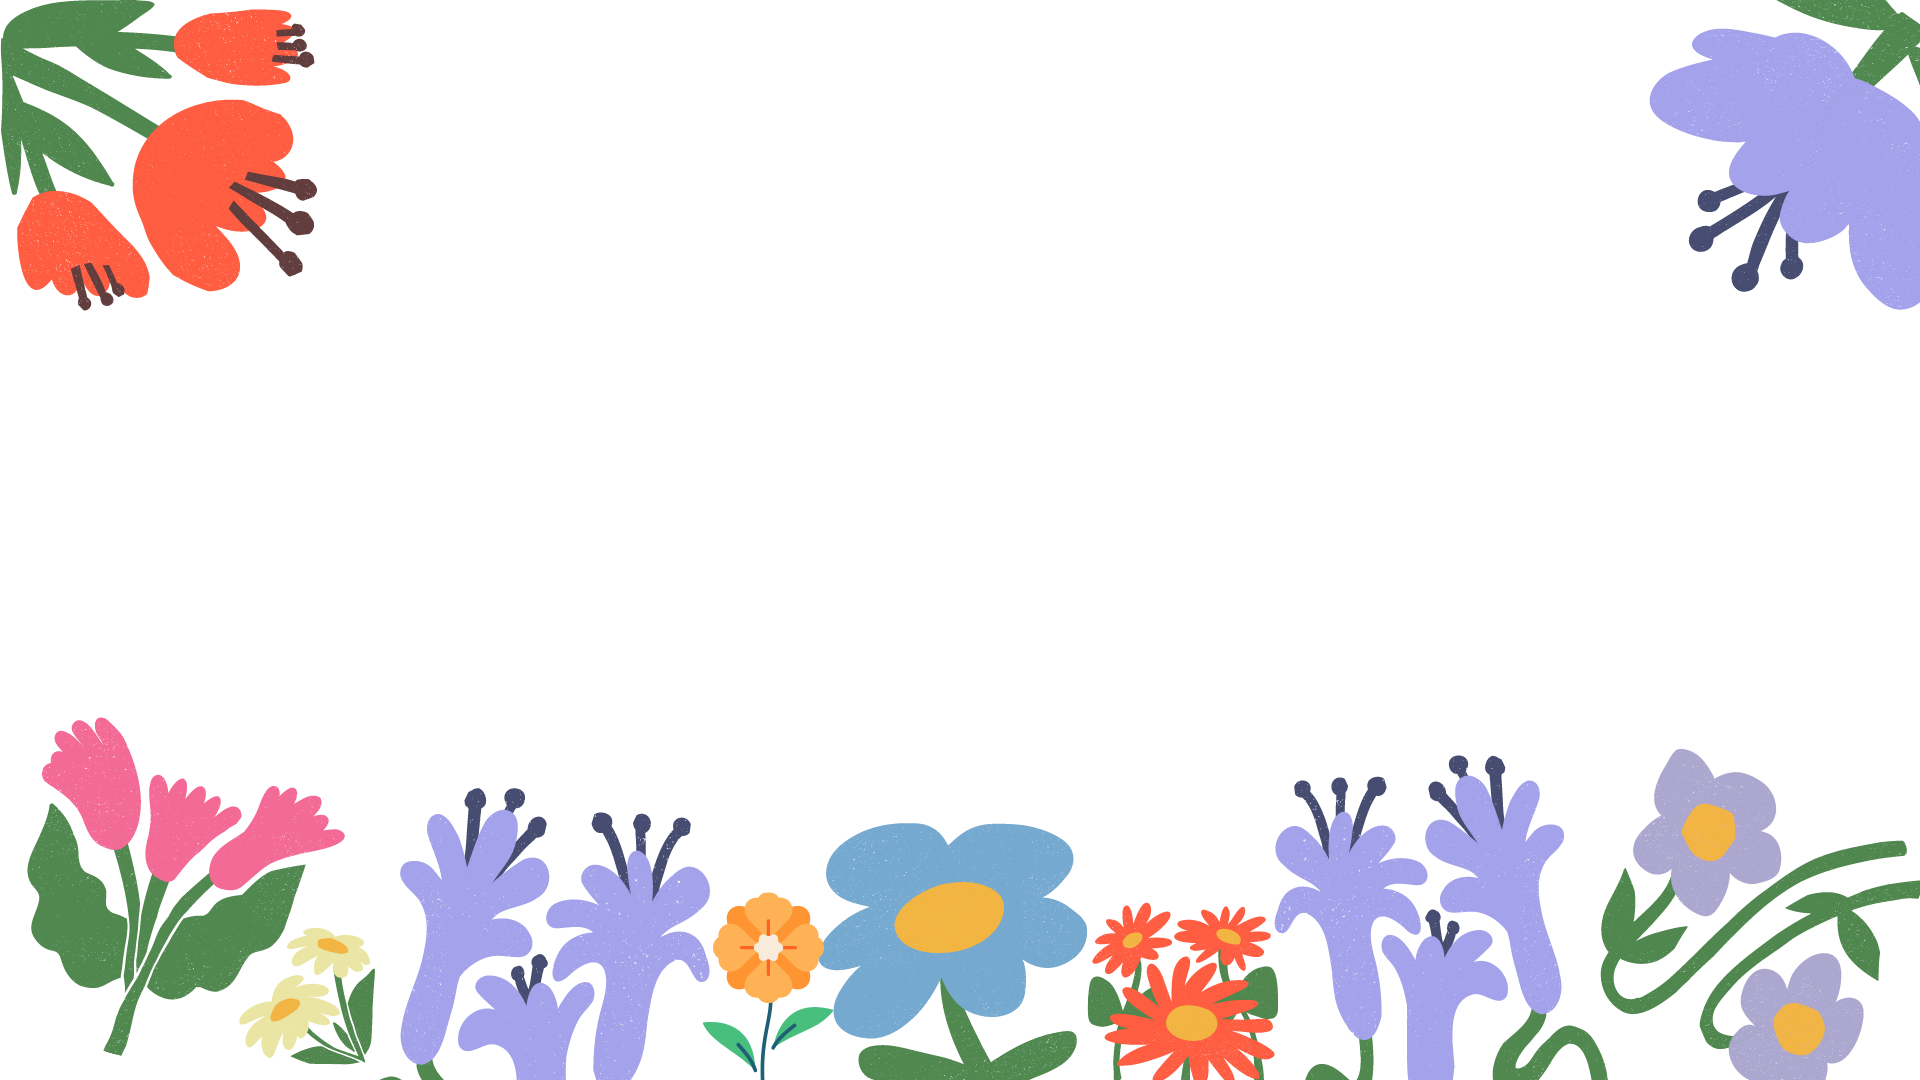
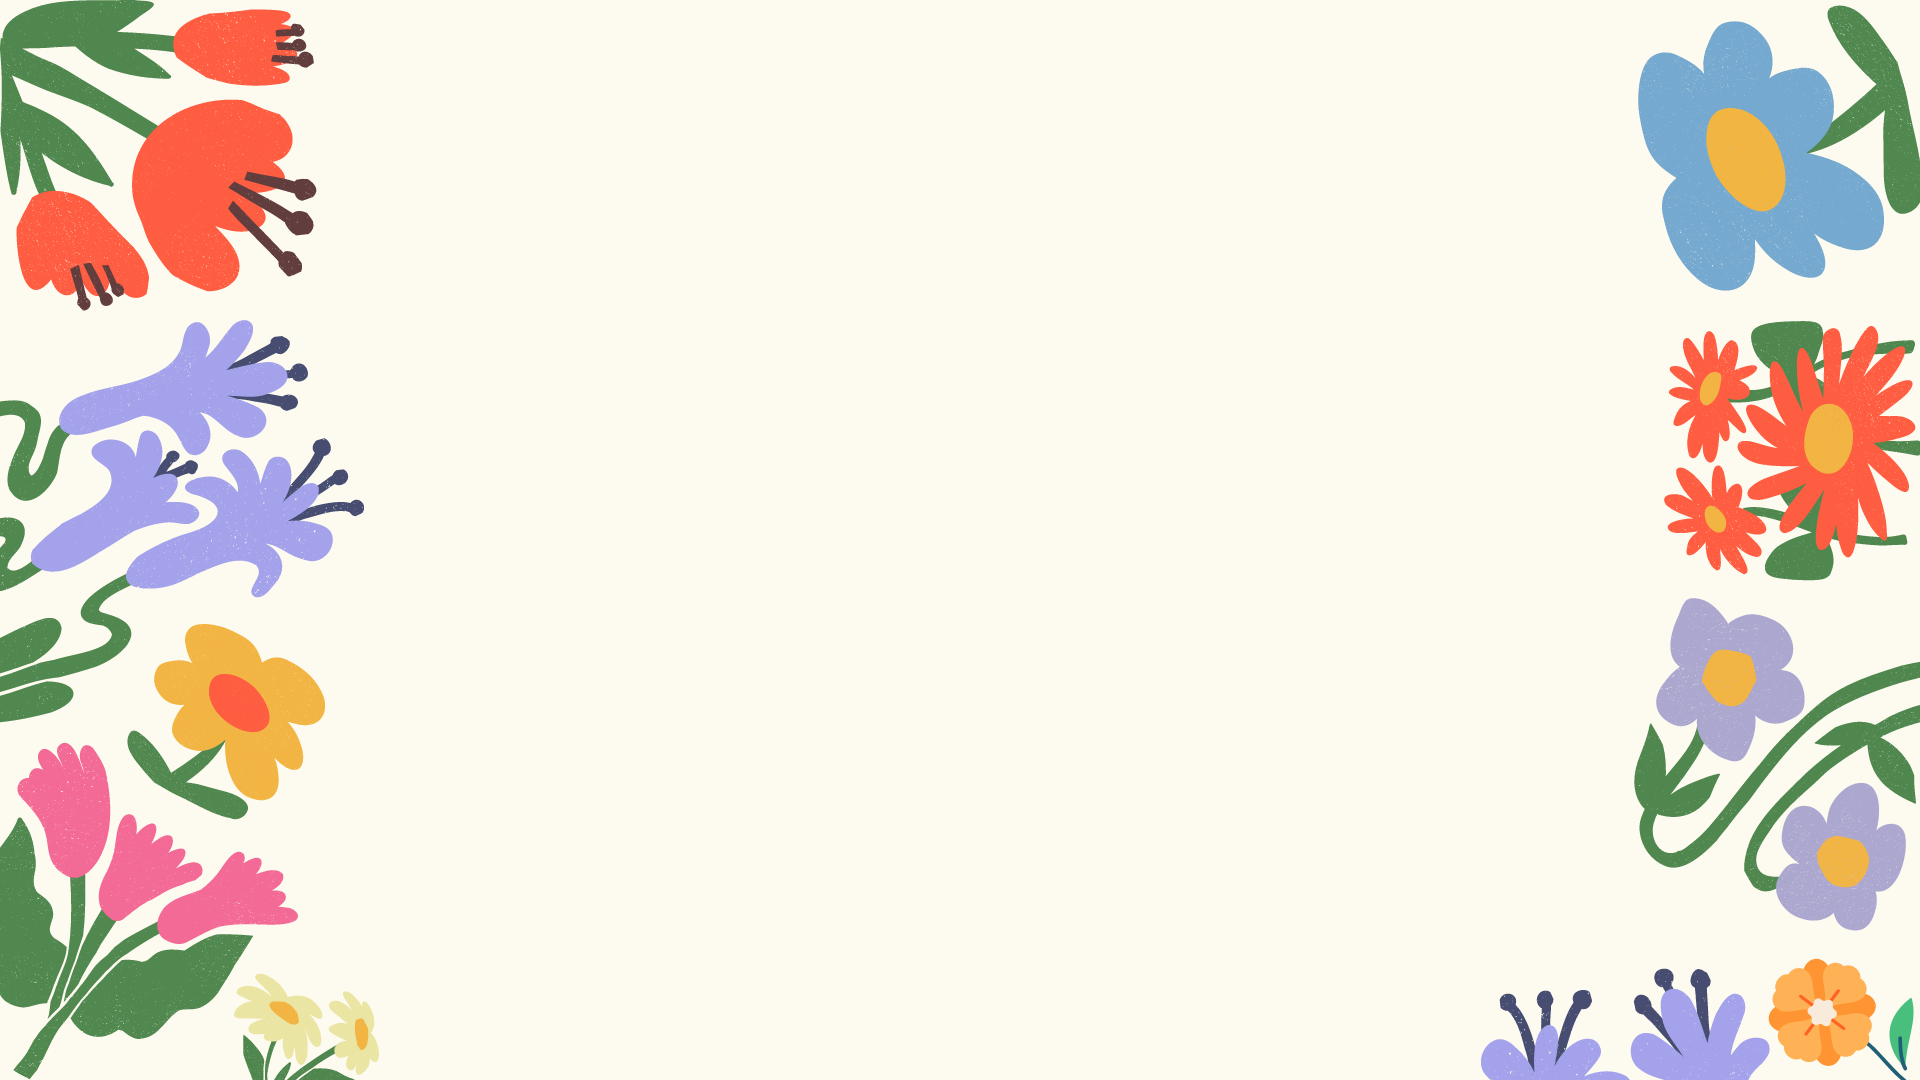
edit background

Changed region(s): [[0.0, 0.0, 1.0, 1.0], [0.0312, 0.2444, 0.0625, 0.275], [0.0, 0.1222, 0.0312, 0.1528]]

diff --git a/index.html b/index.html
@@ -6,7 +6,7 @@
     <meta name="viewport" content="width=device-width, initial-scale=1.0" />
     <meta
       name="description"
-      content="Проєкт підтримки озеленення 11 школи у м. Харкові від ГО «Тарілка» та Парку-розсаднику «Щавель»"
+      content="Charity Gardening, volunteer project"
     />
     <title>Charity Gardening</title>
     <link rel="stylesheet" href="style.css" />

diff --git a/style.css b/style.css
@@ -5,8 +5,8 @@
 }
 body{
   background-image: url("/images/1.png"), linear-gradient( #e6b980 0%, #efdfd0 100%);
-  background-repeat: no-repeat ;
-  background-size: 100%;
+  background-repeat:repeat-y ;
+  background-size:contain;
 }
 h1,
 h2,
